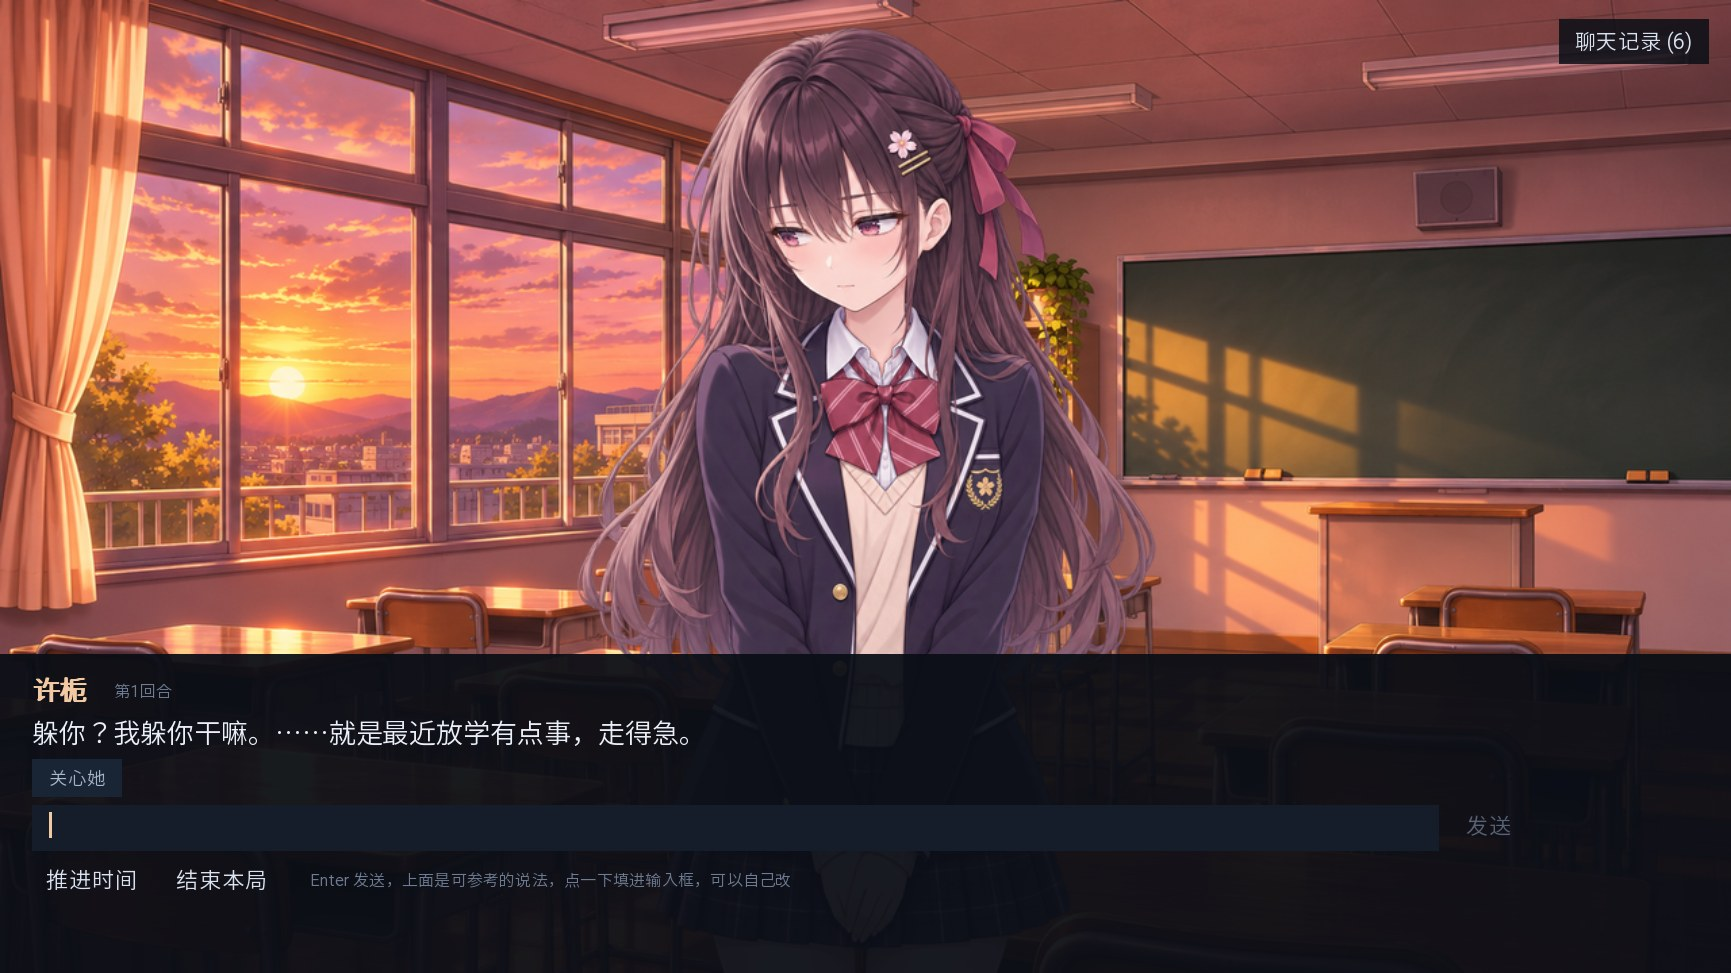
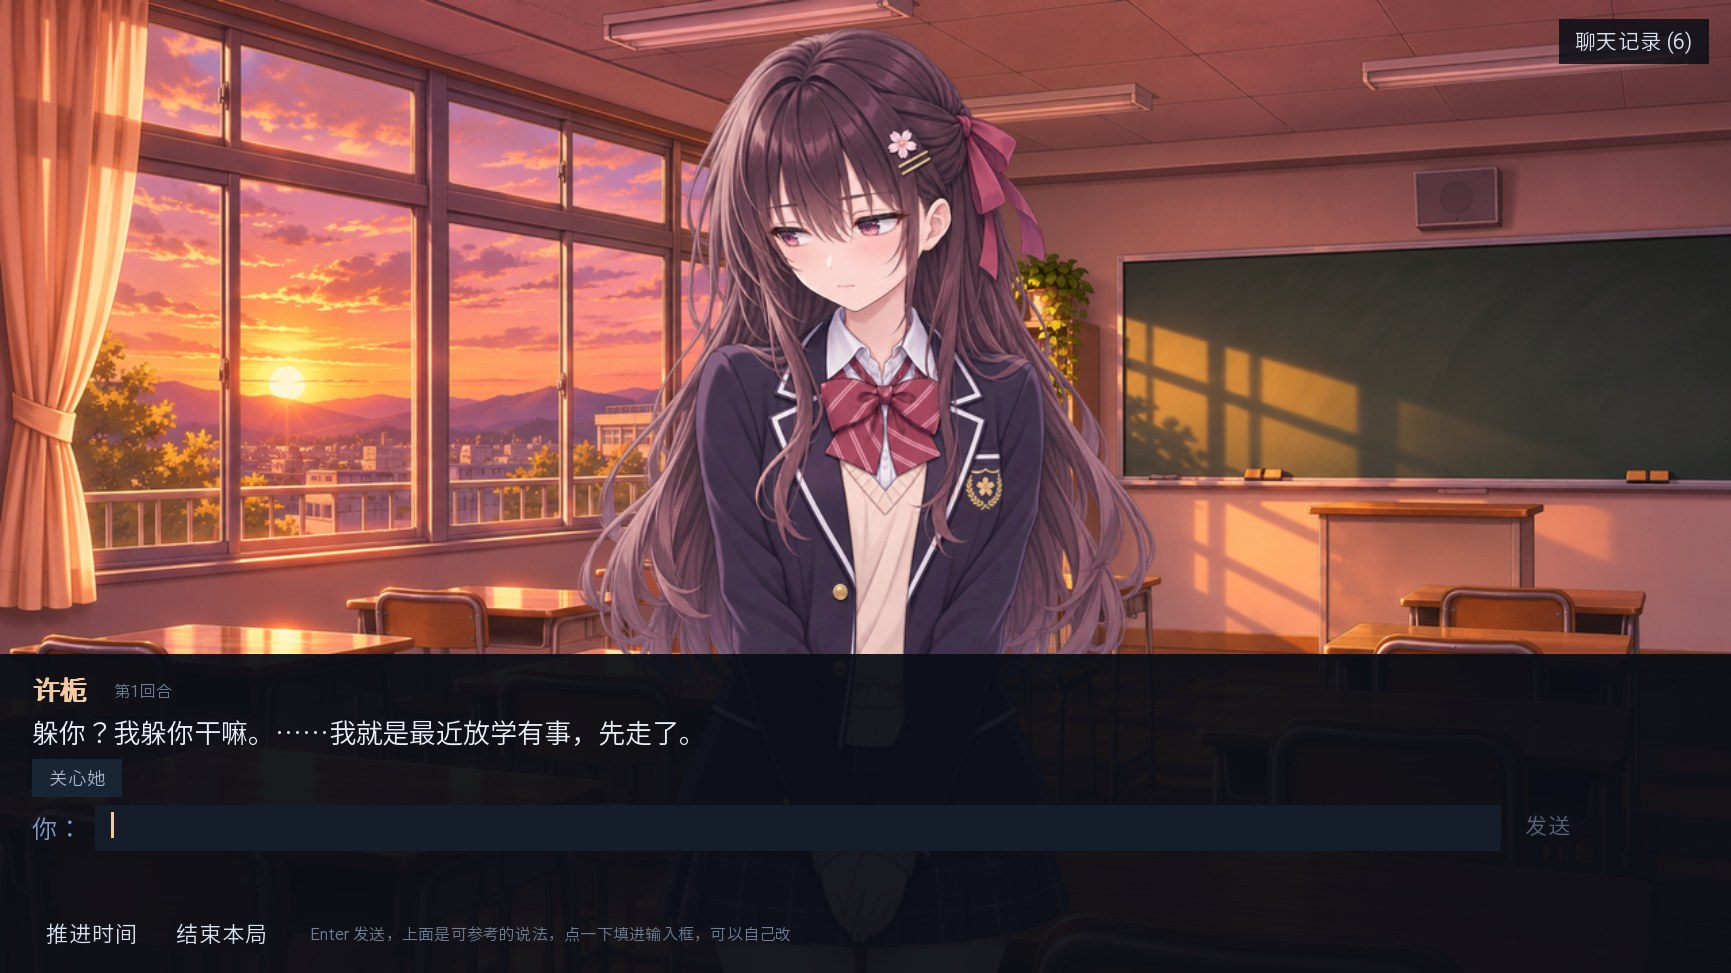
UI: move advance/quit to bottom action bar; add 你：prefix before input

diff --git a/docs/V0.3_ACCEPTANCE.md b/docs/V0.3_ACCEPTANCE.md
@@ -155,6 +155,7 @@ $ .venv\Scripts\python.exe -m pytest -q
 | 面板混排 | 底部拆成旁白页（只显示旁白 + 继续）与对话页（只显示她这一句 + 建议 + 输入框）；完整记录仍在右上角抽屉 |
 | 面板过高/忽高忽低 | 固定 236px，旁白页与对话页同高，四周留白；比旧版 322px 低，又不会随文字行数跳动 |
 | 提示重复 | 已点过（或手动发过同样文本）的建议写入 `used_suggestions`，后续过滤不再出现；同一轮重复文本也只保留一个 |
+| 底部操作/输入 | 「推进时间 / 结束本局」固定到面板最下方动作条；输入框前加「你：」前缀，明确这是玩家在说话 |
 
 验证：
 
